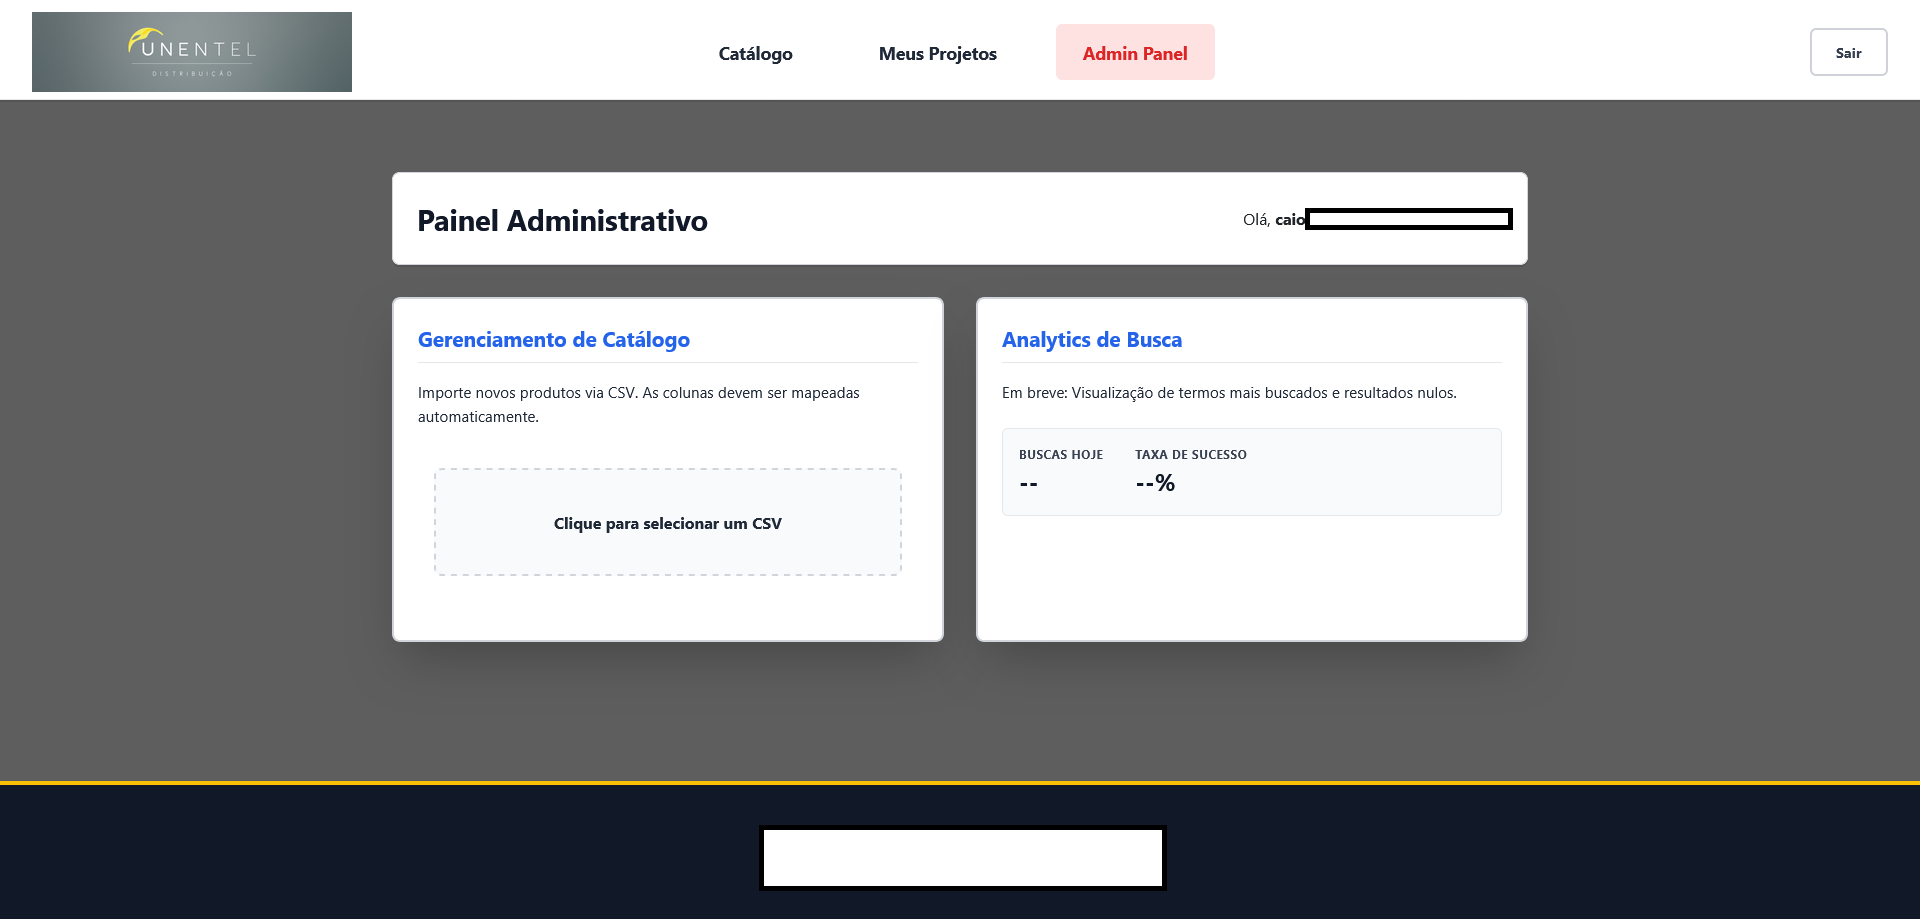
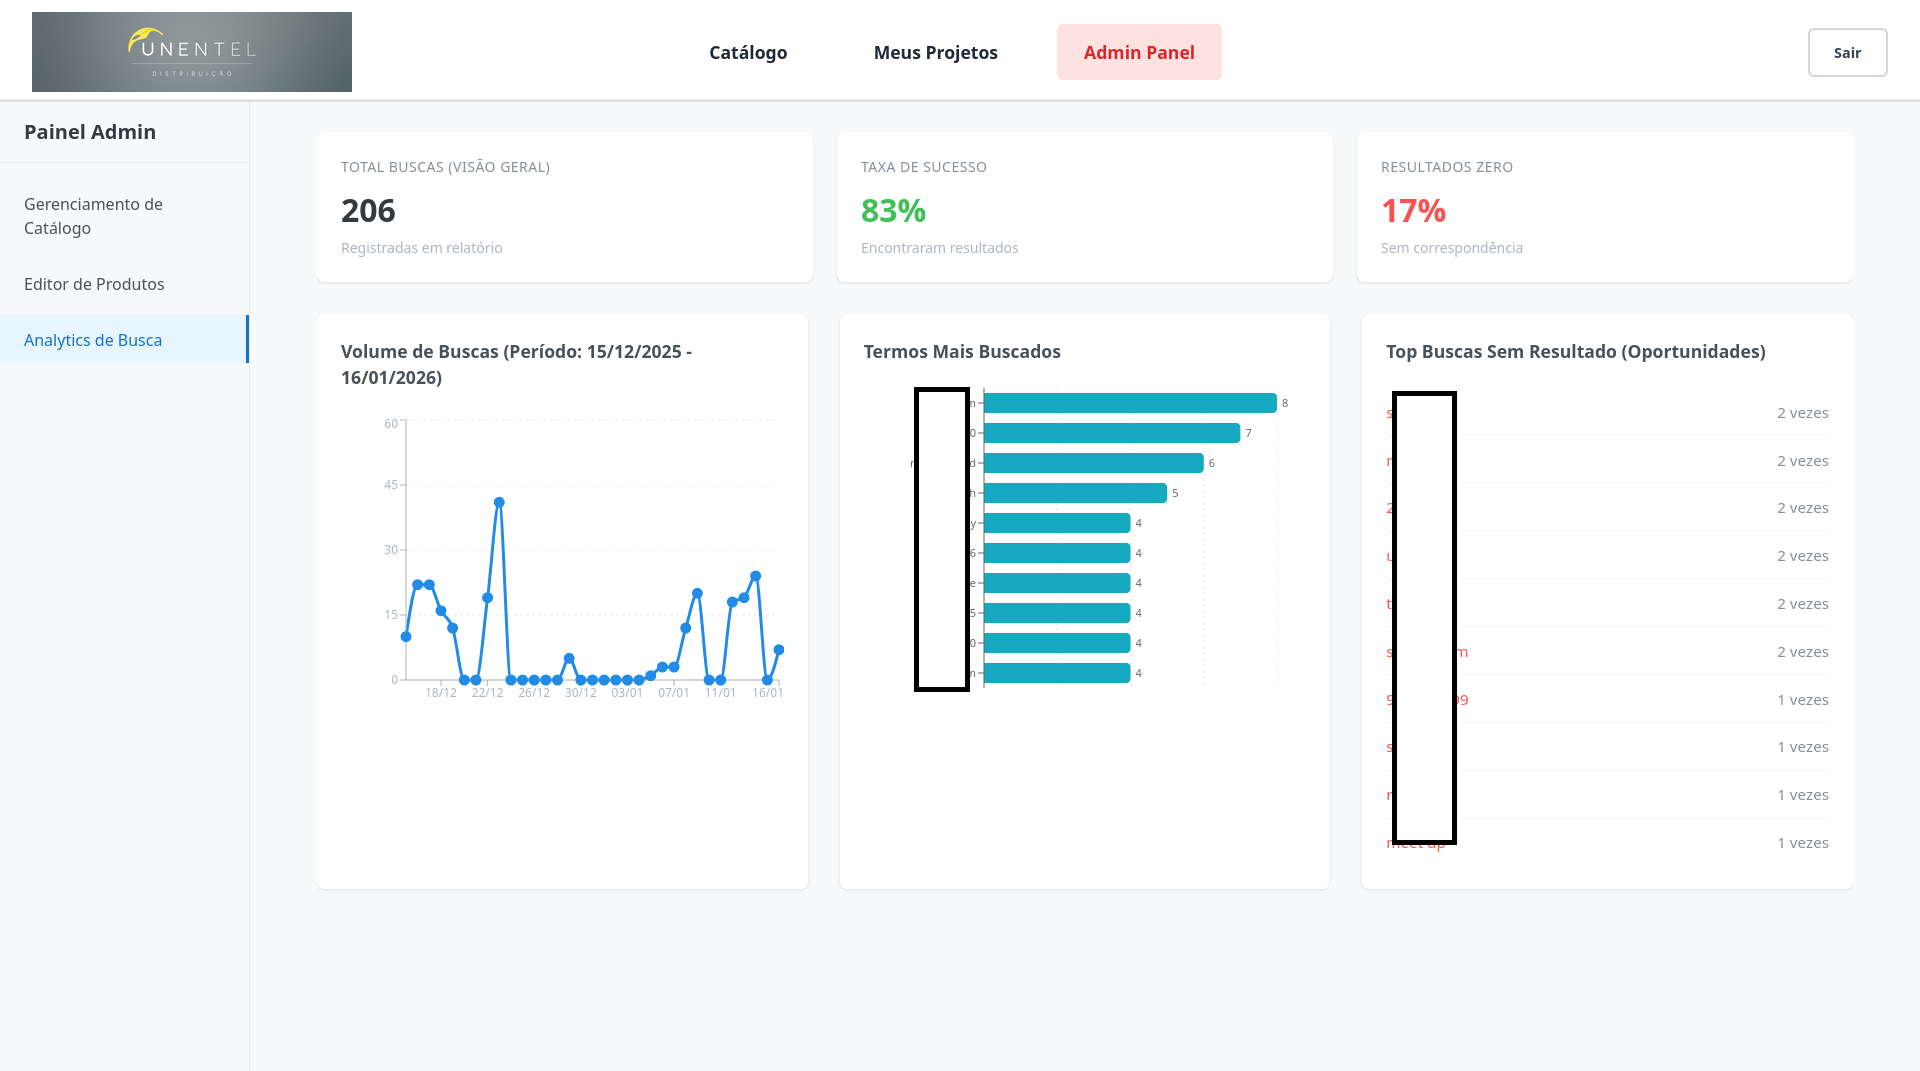
feat: add new gallery images and update dictionaries for project catalog

diff --git a/src/data/dictionaries.ts b/src/data/dictionaries.ts
@@ -147,6 +147,8 @@ export const dictionaries = {
             "/images/projects/unentel-catalog/gallery3catalog.png",
             "/images/projects/unentel-catalog/gallery4catalog.png",
             "/images/projects/unentel-catalog/gallery5catalog.png",
+            "/images/projects/unentel-catalog/gallery6catalog.png",
+            "/images/projects/unentel-catalog/gallery7catalog.png",
           ],
           tech: [
             "PostgreSQL",
@@ -396,6 +398,8 @@ export const dictionaries = {
             "/images/projects/unentel-catalog/gallery3catalog.png",
             "/images/projects/unentel-catalog/gallery4catalog.png",
             "/images/projects/unentel-catalog/gallery5catalog.png",
+            "/images/projects/unentel-catalog/gallery6catalog.png",
+            "/images/projects/unentel-catalog/gallery7catalog.png",
           ],
           tech: [
             "PostgreSQL",
